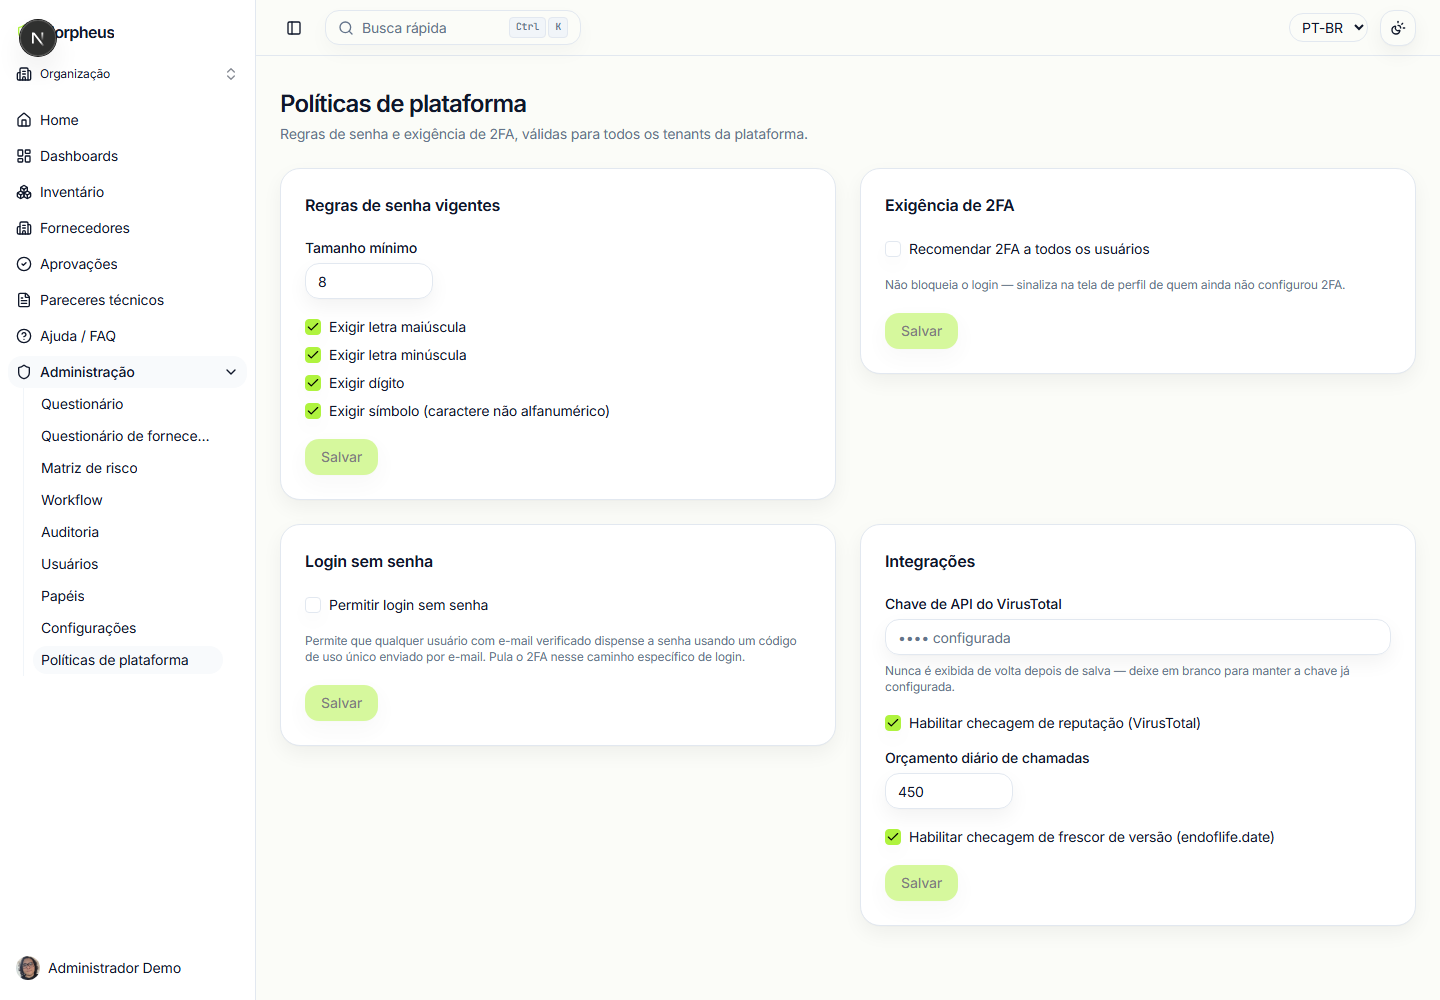
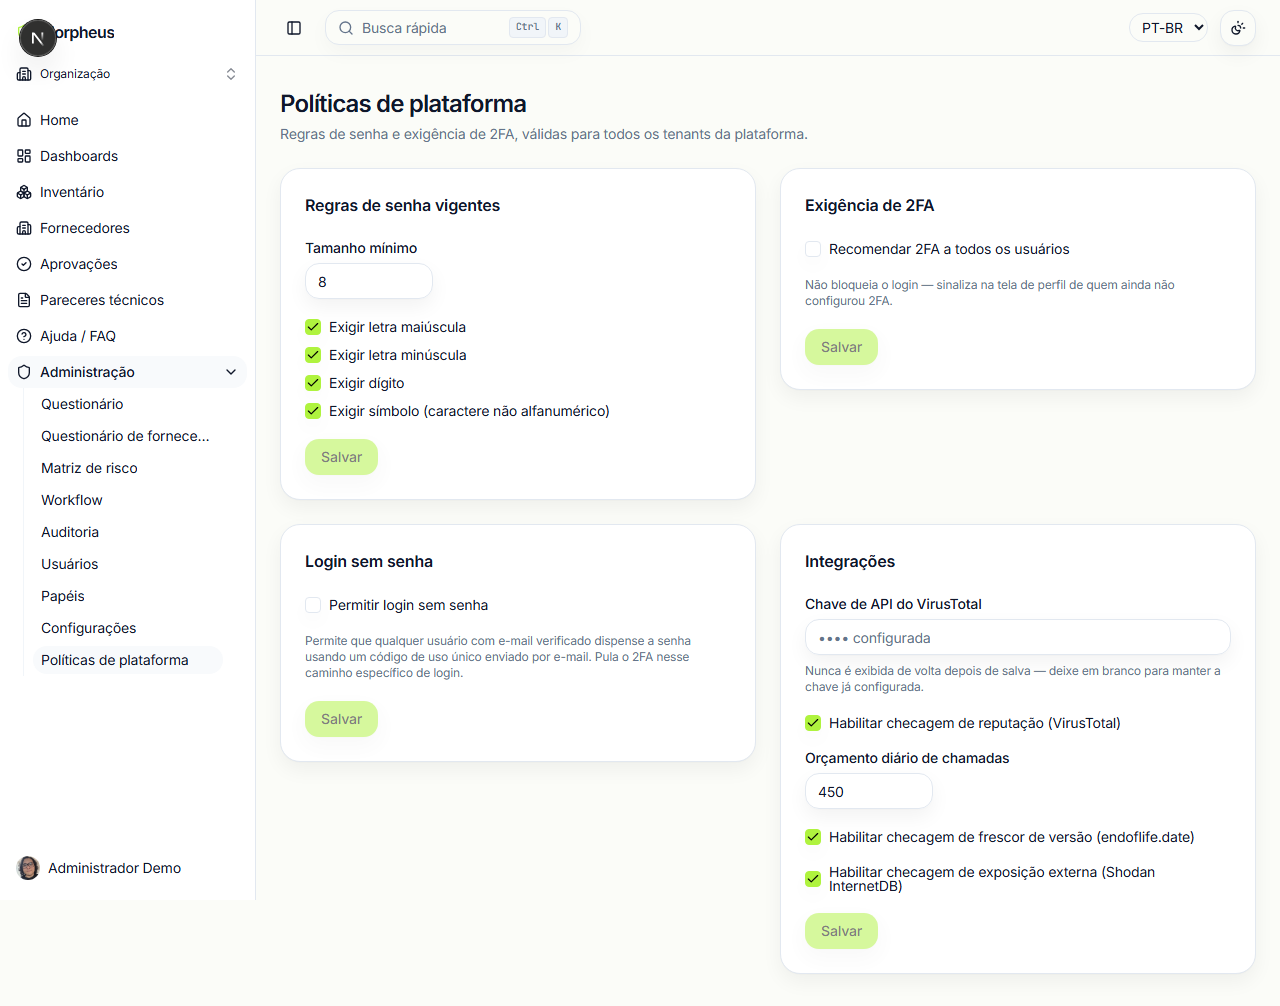
docs(inventory): exposição externa - Fase 5, portfólio (fecha o arco)
Checagens reais via POST /inventory/:id/exposure-check contra 3 itens do
tenant demo (Canva Pro, DocuSign, Freight Tracking API) - nenhum veredito
fabricado. Screenshots novos/regenerados (PT-BR+EN): seção de exposição
externa no detalhe do item (painel expandido) e o 4º toggle em
/admin/platform-policy. README estende a seção de metodologia de
enriquecimento com o 3º sinal. Fecha o arco (5 fases, #151-#155).

diff --git a/README.md b/README.md
@@ -75,9 +75,11 @@ avaliado ou está com reavaliação vencida/próxima.
 ## Enriquecimento de inventário (metodologia)
 
 Além dos sinais autodeclarados (ART, cláusula de segurança da informação), cada item do inventário
-pode ganhar dois sinais automáticos, consultados sob demanda ou por uma varredura noturna com
-orçamento diário compartilhado (nunca estoura a cota gratuita do terceiro, mesmo somando cliques
-manuais de vários usuários):
+pode ganhar três sinais automáticos, consultados sob demanda ou por uma varredura noturna. A checagem
+de reputação de ameaça soma o clique manual e a varredura num único orçamento diário compartilhado,
+pra nunca estourar a cota gratuita do VirusTotal, mesmo somando cliques de vários usuários; frescor de
+versão e exposição externa consultam APIs públicas sem chave, sem esse teto - só um ritmo interno
+responsável para não martelar o terceiro:
 
 - **Frescor de versão**: vínculo manual com o catálogo do [endoflife.date](https://endoflife.date/)
   (sincronizado localmente todo dia) - compara a versão cadastrada do item contra o ciclo de release
@@ -89,8 +91,14 @@ manuais de vários usuários):
   identificáveis do tenant. Um hash/URL que o VirusTotal nunca viu antes vira "não verificado", jamais
   "limpo" por omissão. Para software obviamente confiável sem artefato pra checar (ex. um SaaS
   comercial conhecido), existe também uma flag manual "declarado conhecido".
+- **Exposição externa**: consulta passiva na [Shodan InternetDB](https://internetdb.shodan.io/) a
+  partir do IP público resolvido da URL do item - portas abertas, CPEs, hostnames e vulnerabilidades
+  conhecidas já indexadas pela Shodan (nunca um scan em tempo real). IPs privados/reservados são
+  descartados antes de qualquer consulta - o código nunca faz uma requisição para o host do próprio
+  item, só resolve o DNS localmente e consulta a Shodan com a string do IP. Um IP nunca indexado (ou
+  descartado por ser privado) vira "não verificado", nunca "sem vulnerabilidades" por omissão.
 
-Ambas as integrações são opcionais e configuradas pelo super-admin numa tela central - e, seguindo a
+As três integrações são opcionais e configuradas pelo super-admin numa tela central - e, seguindo a
 mesma premissa de resiliência do resto do sistema, a indisponibilidade de qualquer uma delas nunca
 compromete a leitura normal do inventário: os dados exibidos vêm sempre do último resultado já salvo,
 nunca de uma chamada ao vivo durante a navegação.
@@ -98,6 +106,10 @@ nunca de uma chamada ao vivo durante a navegação.
 | Frescor de versão no detalhe do item | Reputação de ameaça no detalhe do item |
 | --- | --- |
 | ![Frescor de versão](./docs/screenshots/inventory-freshness.png) | ![Reputação de ameaça](./docs/screenshots/inventory-reputation.png) |
+
+| Exposição externa no detalhe do item |
+| --- |
+| ![Exposição externa](./docs/screenshots/inventory-exposure.png) |
 
 ## Conformidade com frameworks de segurança (metodologia)
 
@@ -338,8 +350,11 @@ overdue/upcoming reassessment.
 ## Inventory enrichment (methodology)
 
 Beyond the self-declared signals (ART, information security clause), every inventory item can carry
-two automatic signals, checked on demand or by a nightly sweep sharing one daily budget (never
-exceeds the third party's free-tier cap, even counting manual clicks from multiple users at once):
+three automatic signals, checked on demand or by a nightly sweep. The threat reputation check pools
+manual clicks and the sweep into a single shared daily budget, so it never exceeds VirusTotal's
+free-tier cap even counting clicks from multiple users; version freshness and external exposure query
+free, keyless public APIs with no such cap - just an internal responsible pace so the third party
+isn't hammered:
 
 - **Version freshness**: a manual link to the [endoflife.date](https://endoflife.date/) catalog
   (synced locally every day) - compares the item's registered version against the matching release
@@ -350,15 +365,26 @@ exceeds the third party's free-tier cap, even counting manual clicks from multip
   tenant-identifying data. A hash/URL VirusTotal has never seen becomes "unverified", never "clean"
   by omission. For software that's obviously trustworthy with no artifact to check (e.g. a well-known
   commercial SaaS), there's also a manual "declared known" flag.
+- **External exposure**: a passive lookup on [Shodan InternetDB](https://internetdb.shodan.io/) from
+  the public IP resolved out of the item's URL - open ports, CPEs, hostnames, and known
+  vulnerabilities Shodan already has indexed (never a real-time scan). Private/reserved IPs are
+  discarded before any lookup happens - the code never issues a request to the item's own host, it
+  only resolves DNS locally and queries Shodan with the IP as a string. An IP Shodan has never
+  indexed (or one discarded for being private) becomes "unverified", never "no known
+  vulnerabilities" by omission.
 
-Both integrations are optional and configured by the super-admin in a central screen - and, following
-the same resilience premise as the rest of the system, either one being unavailable never compromises
-normal inventory reads: the data shown always comes from the last saved result, never a live call made
-while browsing.
+All three integrations are optional and configured by the super-admin in a central screen - and,
+following the same resilience premise as the rest of the system, any one of them being unavailable
+never compromises normal inventory reads: the data shown always comes from the last saved result,
+never a live call made while browsing.
 
 | Version freshness on the item detail page | Threat reputation on the item detail page |
 | --- | --- |
 | ![Version freshness](./docs/screenshots/inventory-freshness-en.png) | ![Threat reputation](./docs/screenshots/inventory-reputation-en.png) |
+
+| External exposure on the item detail page |
+| --- |
+| ![External exposure](./docs/screenshots/inventory-exposure-en.png) |
 
 ## Compliance with security frameworks (methodology)
 

diff --git a/docs/changelog/2026-08.md b/docs/changelog/2026-08.md
@@ -1967,3 +1967,36 @@ ver [`../CHANGELOG.md`](../CHANGELOG.md) para o índice completo.
     grande.
   - Nenhum código alterado nesta fase - só verificação (leitura + teste dos casos do checklist já
     cobertos pelas Fases 1-3) e este registro. Nenhuma vulnerabilidade nova introduzida pelo arco.
+- **Exposição externa de inventário (Shodan InternetDB) - Fase 5: portfólio (fecha o arco).** Checagens
+  reais via `POST /inventory/:id/exposure-check` contra 3 itens do tenant `demo` que já tinham `url`
+  cadastrada - nunca fabricado veredito nenhum via SQL, aceito o que a Shodan devolveu de verdade:
+  - **Canva Pro** (`https://www.canva.com`) - `no-known-vulnerabilities`, IP `104.16.102.112` (CDN da
+    Cloudflare), 13 portas abertas, tag `cdn`, `cpe:/a:cloudflare:cloudflare`, hostname
+    `static.canva.com.cdn.cloudflare.net` - o item escolhido para o screenshot, por ter o conjunto mais
+    rico de dado real pra mostrar o painel expansível.
+  - **DocuSign** (`https://www.docusign.com`) - rechecado, `no-known-vulnerabilities`; o IP mudou desde
+    a verificação da Fase 3 (`15.197.167.90`, AWS Global Accelerator/anycast) - comportamento esperado
+    de infraestrutura real dinâmica, não um bug.
+  - **Freight Tracking API** (domínio fictício `.example` usado como amostra de item interno) -
+    `unverified`, sem IP resolvido - demonstra honestamente o caminho "sem dado" (domínio de
+    demonstração não resolve de verdade), sem precisar fabricar uma URL pública só para preencher o
+    3º estado.
+  - Screenshots novos (PT-BR+EN): `inventory-exposure(-en).png` (detalhe do item Canva Pro, painel
+    "Detalhes técnicos" expandido) e `admin-platform-policy(-en).png` regenerado (4º toggle
+    "Habilitar checagem de exposição externa (Shodan InternetDB)" visível e ligado por padrão no card
+    "Integrações"). Nenhum outro screenshot precisou de regeneração - este arco não adicionou item de
+    navegação novo (diferente do precedente de sidebar já documentado em arcos anteriores).
+  - `README.md` (PT-BR+EN): seção "Enriquecimento de inventário (metodologia)" estendida com o 3º sinal
+    (era só frescor+reputação) - novo bullet explicando a checagem passiva na Shodan InternetDB, a
+    resolução de IP a partir da URL, a rejeição de IP privado/reservado, e o mesmo princípio de "ausência
+    de dado nunca vira veredito positivo" já usado nos outros dois sinais. Frase sobre orçamento diário
+    compartilhado ajustada para não supergeneralizar - só a reputação de ameaça (VirusTotal) tem
+    orçamento rígido; frescor e exposição usam APIs gratuitas sem esse teto. Nova tabela de screenshot
+    de uma coluna (mesmo padrão já usado para "Conformidade com frameworks" na galeria de telas).
+  - **Testes**: validação em navegador real via Playwright (script descartável, deletado após uso) -
+    login → item Canva Pro → painel expandido → screenshot; `/admin/platform-policy` → screenshot.
+    Repetido em inglês, zero chave i18n faltando. Revisão visual manual de cada imagem antes de
+    referenciar no README (abrir e olhar, não assumir).
+  - **Fecha o arco**: 5 fases (#151-#155), milestone #23 fechado. Terceiro e último sinal de
+    enriquecimento planejado sobre `SoftwareInventoryItem` nesta rodada (frescor de versão + reputação
+    de ameaça + exposição externa).
